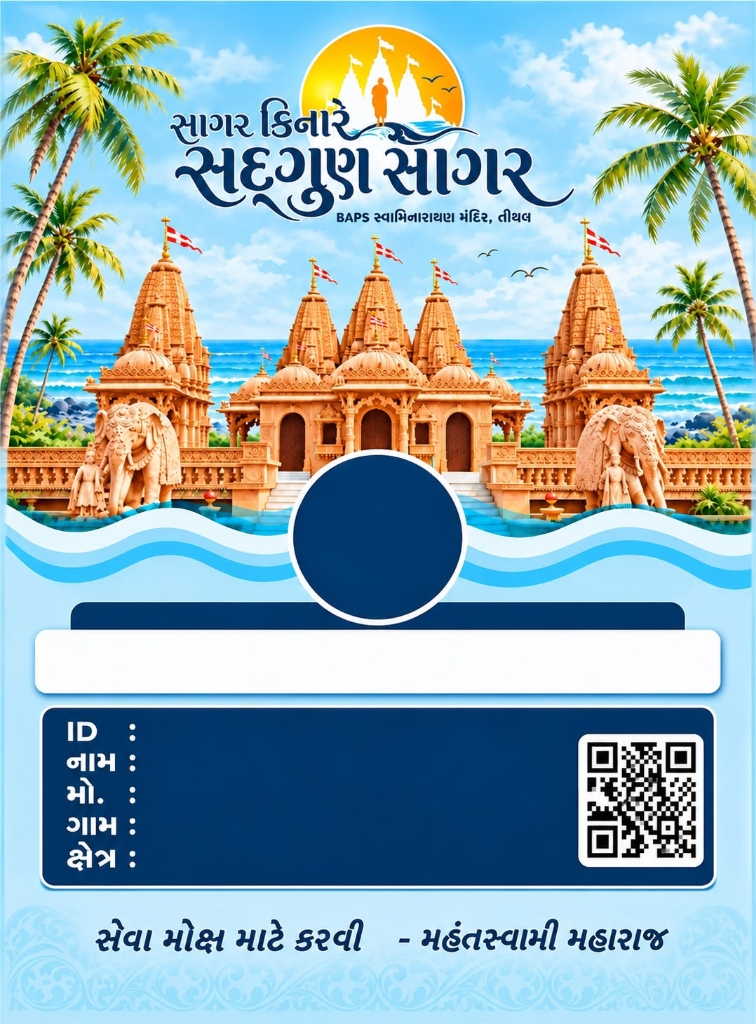
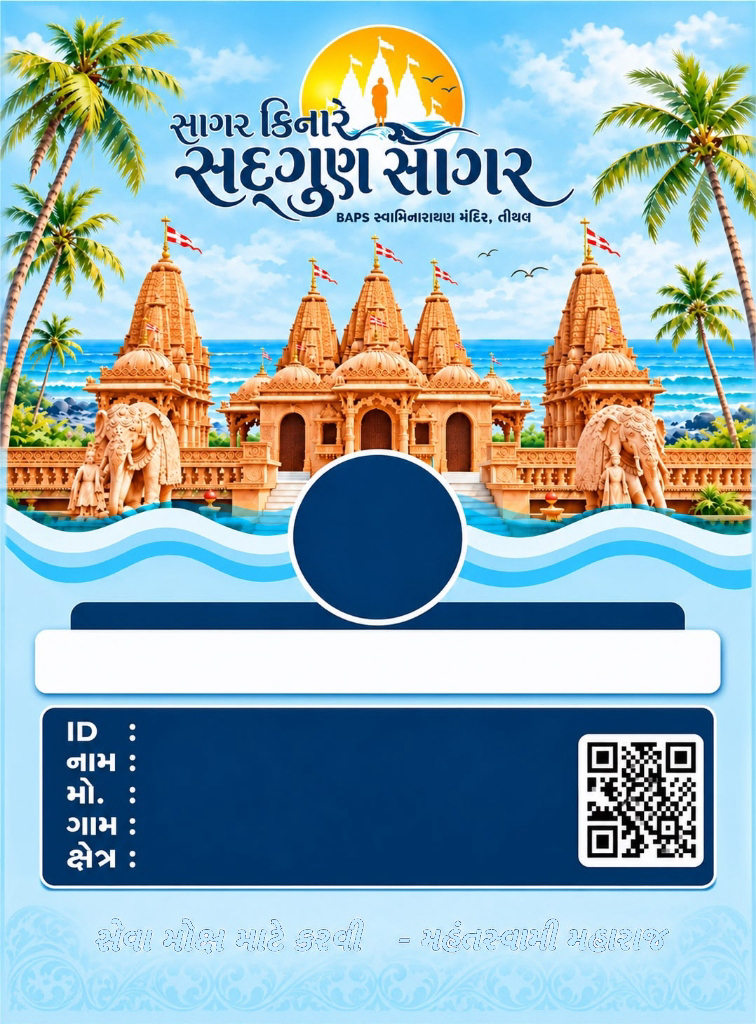
feat(id-card): move volunteer name to prominent white box, show 3 details in blue box (mobile/village/kshetra), remove ID row, and place Seva Vibhag at bottom replacing quote

diff --git a/src/components/IdCard.tsx b/src/components/IdCard.tsx
@@ -37,21 +37,21 @@ export const IdCard = forwardRef<HTMLDivElement, IdCardProps>(
     const cleanVolunteerId = (volunteerId || 'BAPS-74930-TNL').trim();
     const verificationUrl = `${baseUrl.replace(/\/$/, '')}/verify/${cleanVolunteerId}`;
 
-    // Auto font size for Seva Vibhag inside the White Text Box (with safe clearance for upper matras)
-    const getVibhagFontSize = (text: string) => {
-      const len = text ? text.length : 0;
-      if (len > 24) return 'text-[11.5px] sm:text-[13px]';
-      if (len > 18) return 'text-[13px] sm:text-[15px]';
-      if (len > 12) return 'text-[15px] sm:text-[17px]';
-      return 'text-[17px] sm:text-[19.5px]';
-    };
-
-    // Auto font size for Volunteer Name
+    // Auto font size for Volunteer Name inside the prominent White Box below photo
     const getNameFontSize = (text: string) => {
       const len = text ? text.length : 0;
-      if (len > 28) return 'text-[10px] sm:text-[11.5px]';
-      if (len > 20) return 'text-[11px] sm:text-[12.5px]';
-      return 'text-[12px] sm:text-[13.5px]';
+      if (len > 24) return 'text-[13px] sm:text-[15.5px]';
+      if (len > 18) return 'text-[15px] sm:text-[18px]';
+      if (len > 12) return 'text-[17px] sm:text-[20.5px]';
+      return 'text-[19px] sm:text-[23px]';
+    };
+
+    // Auto font size for Seva Vibhag at the bottom (replacing the quote)
+    const getVibhagFontSize = (text: string) => {
+      const len = text ? text.length : 0;
+      if (len > 24) return 'text-[13px] sm:text-[15px]';
+      if (len > 18) return 'text-[15px] sm:text-[17.5px]';
+      return 'text-[17px] sm:text-[20px]';
     };
 
     return (
@@ -113,8 +113,8 @@ export const IdCard = forwardRef<HTMLDivElement, IdCardProps>(
           </div>
         </div>
 
-        {/* 2. DYNAMIC SEVA VIBHAG IN WHITE TEXT BOX */}
-        {/* Optical center: X: 50.0%, Y: 65.30%, Width: 88.0%, Height: 6.5%, overflow-visible prevents any vowel clipping */}
+        {/* 2. VOLUNTEER NAME (IN THE PROMINENT WHITE BOX BELOW PHOTO) */}
+        {/* Optical center: X: 50.0%, Y: 65.30%, Width: 88.0%, Height: 6.5%, overflow-visible prevents clipping */}
         <div
           className="absolute z-10 flex items-center justify-center text-center pointer-events-none overflow-visible"
           style={{
@@ -126,85 +126,61 @@ export const IdCard = forwardRef<HTMLDivElement, IdCardProps>(
           }}
         >
           <span
-            className={`font-black tracking-wide text-[#0C3260] text-center leading-[1.15] whitespace-nowrap overflow-visible ${getVibhagFontSize(
-              sevaVibhagName || 'સ્વયંસેવક દળ'
+            className={`font-black tracking-wide text-[#0C3260] text-center leading-[1.15] whitespace-nowrap overflow-visible ${getNameFontSize(
+              name || 'સ્વયંસેવક'
             )}`}
             style={{
               fontFamily: "'Noto Sans Gujarati', sans-serif",
             }}
+            title={name}
           >
-            {sevaVibhagName || 'સ્વયંસેવક દળ'}
+            {name || 'સ્વયંસેવક'}
           </span>
         </div>
 
-        {/* 3. DYNAMIC DETAILS NAVY BOX (HEIGHT INCREASED & BALANCED FROM TOP & BOTTOM) */}
-        {/* Bounds: Left: 5.5%, Top: 68.2%, Width: 89.0%, Height: 21.0% */}
+        {/* 3. PERSONAL DETAILS BLUE BOX (3 LINES: મો., ગામ, ક્ષેત્ર + QR CODE) */}
+        {/* Bounds: Left: 5.5%, Top: 68.5%, Width: 89.0%, Height: 19.5% */}
         {/* Solid #00366C background completely covers the old pre-printed box, labels and QR code */}
-        {/* Titles and values are rendered together in the same flex row, guaranteeing 100% exact alignment in English or Gujarati! */}
+        {/* Titles and values are in the same flex row, guaranteeing 100% exact alignment in English or Gujarati! */}
         <div
           className="absolute z-10 rounded-xl border-[2px] border-white flex items-center justify-between p-2.5 sm:p-3 shadow-md"
           style={{
-            top: '68.2%',
+            top: '68.5%',
             left: '5.5%',
             width: '89.0%',
-            height: '21.0%',
+            height: '19.5%',
             backgroundColor: '#00366C',
             boxSizing: 'border-box',
           }}
         >
-          {/* Left Column: 5 Detail Rows */}
-          <div className="flex-1 h-full flex flex-col justify-between pr-2.5 min-w-0">
-            {/* Line 1: ID */}
+          {/* Left Column: 3 Detail Rows (Mobile, Village, Kshetra) */}
+          <div className="flex-1 h-full flex flex-col justify-around pr-2.5 min-w-0">
+            {/* Line 1: Mobile */}
             <div className="flex items-center min-w-0">
-              <span className="font-extrabold text-white text-[11px] sm:text-[13px] tracking-wide shrink-0 w-[42px] sm:w-[48px]">
-                ID :
-              </span>
-              <span className="font-extrabold text-white text-[11px] sm:text-[13px] tracking-wider truncate select-text">
-                {cleanVolunteerId}
-              </span>
-            </div>
-
-            {/* Line 2: Name */}
-            <div className="flex items-center min-w-0">
-              <span className="font-extrabold text-white text-[11px] sm:text-[13px] tracking-wide shrink-0 w-[42px] sm:w-[48px]">
-                નામ :
-              </span>
-              <span
-                className={`font-extrabold text-white truncate select-text ${getNameFontSize(
-                  name || '—'
-                )}`}
-                title={name}
-              >
-                {name || '—'}
-              </span>
-            </div>
-
-            {/* Line 3: Mobile */}
-            <div className="flex items-center min-w-0">
-              <span className="font-extrabold text-white text-[11px] sm:text-[13px] tracking-wide shrink-0 w-[42px] sm:w-[48px]">
+              <span className="font-extrabold text-white text-[12px] sm:text-[14px] tracking-wide shrink-0 w-[42px] sm:w-[48px]">
                 મો. :
               </span>
-              <span className="font-extrabold text-white text-[11px] sm:text-[13px] tracking-widest truncate select-text">
+              <span className="font-extrabold text-white text-[12px] sm:text-[14px] tracking-widest truncate select-text">
                 {mobileNumber || '—'}
               </span>
             </div>
 
-            {/* Line 4: Village */}
+            {/* Line 2: Village */}
             <div className="flex items-center min-w-0">
-              <span className="font-extrabold text-white text-[11px] sm:text-[13px] tracking-wide shrink-0 w-[42px] sm:w-[48px]">
+              <span className="font-extrabold text-white text-[12px] sm:text-[14px] tracking-wide shrink-0 w-[42px] sm:w-[48px]">
                 ગામ :
               </span>
-              <span className="font-extrabold text-white text-[11px] sm:text-[13px] truncate select-text">
+              <span className="font-extrabold text-white text-[12px] sm:text-[14px] truncate select-text">
                 {villageName || '—'}
               </span>
             </div>
 
-            {/* Line 5: Kshetra */}
+            {/* Line 3: Kshetra */}
             <div className="flex items-center min-w-0">
-              <span className="font-extrabold text-white text-[11px] sm:text-[13px] tracking-wide shrink-0 w-[42px] sm:w-[48px]">
+              <span className="font-extrabold text-white text-[12px] sm:text-[14px] tracking-wide shrink-0 w-[42px] sm:w-[48px]">
                 ક્ષેત્ર :
               </span>
-              <span className="font-extrabold text-white text-[11px] sm:text-[13px] truncate select-text">
+              <span className="font-extrabold text-white text-[12px] sm:text-[14px] truncate select-text">
                 {xetraName || '—'}
               </span>
             </div>
@@ -220,6 +196,30 @@ export const IdCard = forwardRef<HTMLDivElement, IdCardProps>(
               className="w-full h-full object-contain"
             />
           </div>
+        </div>
+
+        {/* 4. DYNAMIC SEVA VIBHAG (AT THE BOTTOM, REPLACING THE LAST QUOTE) */}
+        {/* Optical center: X: 50.0%, Y: 93.0%, Width: 90.0%, Height: 5.5% */}
+        <div
+          className="absolute z-10 flex items-center justify-center text-center pointer-events-none overflow-visible"
+          style={{
+            top: '93.0%',
+            left: '50.0%',
+            width: '90.0%',
+            height: '5.5%',
+            transform: 'translate(-50%, -50%)',
+          }}
+        >
+          <span
+            className={`font-black tracking-wide text-[#0C3260] text-center leading-[1.15] whitespace-nowrap overflow-visible drop-shadow-sm ${getVibhagFontSize(
+              sevaVibhagName || 'સ્વયંસેવક દળ'
+            )}`}
+            style={{
+              fontFamily: "'Noto Sans Gujarati', sans-serif",
+            }}
+          >
+            {sevaVibhagName || 'સ્વયંસેવક દળ'}
+          </span>
         </div>
       </div>
     );
